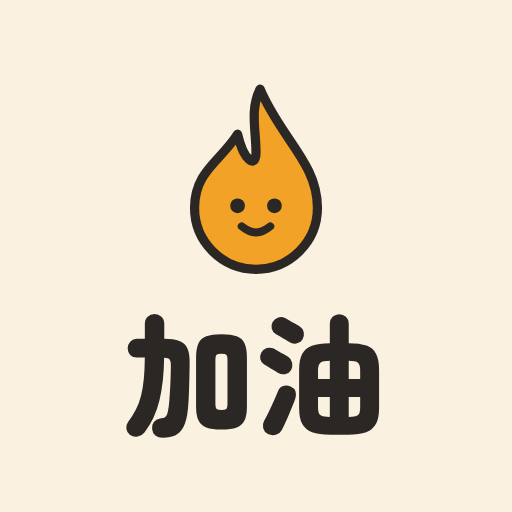
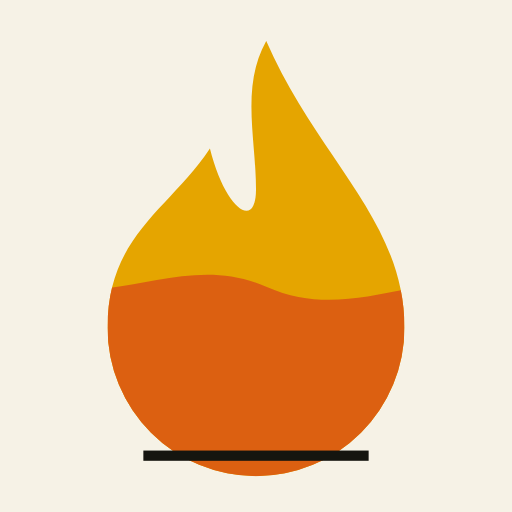
フェーズ1：アイコンを案X・O7で書き出した
design/icons-flame3.html で選んだ O7「二段の炎」を配布物として仕上げた。

- assets/build-icons.mjs を追加。SVGの生成とPNGの書き出しを1か所にまとめ、
  色と形は冒頭の定数だけで変わるようにした。PNGはChromiumでSVGを撮って作る
  （ラスタライザを増やさずに済ませる。marketing/capture-sheets.mjs と同じ流儀）
- 生成り地 #F6F2E6／炎の上段＝山吹 #E5A500／下段＝柿 #DC6011／下の罫＝墨 #15150F
- 書き出し：icon.svg / icon-maskable.svg / icon-192.png / icon-512.png /
  icon-512-maskable.png / apple-touch-icon-180.png
- maskable は中央80%しか見える保証がないので、地はそのままに中身を0.8倍に縮めた。
  これで罫の下端（y=90）も安全圏に入る
- 旧アイコンに埋め込んでいた「加油」の字とwoff2サブセットは不要になったので外した
  （O7は炎だけの構成）。SVGは約3KB→570バイト

ファイル名は前と同じなので manifest.json と index.html の <link> は変更不要
（4つとも既に正しい先を指している）。

残件として design/HANDOFF.md に記録した：
- アプリ内ヘッダー（.brand-flame）とLPの炎がまだ旧デザイン。ヘッダーはフェーズ3で
  作り直すのでそこで差し替える
- manifest.json の background_color / theme_color が #FCF9F2 のまま。アイコンの地は
  #F6F2E6 なのでフェーズ2でトークンを決めるときに揃える

あわせて design/HANDOFF.md を現在地に更新した。前回宙に浮いていた「#E8981F の解釈」は
確認の結果、アイコンの色ではなくUIのアクセント色の指定だったと判明。アクセントは
クリーム地に対する明度差が取れる柿 #DC6011 に決定し、アイコンはO7のまま設計どおりとした。

sw.js の CACHE_VERSION を v64 → v65 に上げた。

Claude-Session: https://claude.ai/code/session_01XjCFNBLbRvqwXR3j61esWr

diff --git a/sw.js b/sw.js
@@ -5,7 +5,7 @@
    ・Firebase / Google 系の通信は常にネット直結（キャッシュしない＝同期・ログインに影響なし）
    ※ アプリを更新したら下の CACHE_VERSION の数字を1つ上げてコミットしてください。 */
 
-const CACHE_VERSION = 'hsk4-cache-v64';
+const CACHE_VERSION = 'hsk4-cache-v65';
 const PRECACHE = [
   './',
   './index.html',

diff --git a/design/HANDOFF.md b/design/HANDOFF.md
@@ -2,8 +2,16 @@
 
 最終更新：2026-09-19　ブランチ：`claude/eloquent-davinci-fi7mjq`
 
-**アプリ本体（`index.html`）にはまだ一切手を入れていない。** ここまでは全部モックアップ。
-実装はこれから。
+## いまどこまで進んだか
+
+| | 状態 |
+|---|---|
+| フェーズ0（粗取り4件） | **完了**。`index.html` に着手済み |
+| フェーズ1（アイコン一式） | **完了**。`assets/` を書き出し済み |
+| フェーズ2以降 | **未着手。ここから再開する** |
+
+**次に手を付けるのはフェーズ2（デザイントークンを案Xへ差し替え）。**
+下の「4. 次にやること」の番号はそのまま使える。
 
 ---
 
@@ -14,23 +22,24 @@
 | **デザインの方向** | **案X「辞書・新聞」の洗練後**。明朝（Noto Serif JP）＋宋体（Noto Serif SC）、罫線で組む、カードも角丸も影もゼロ |
 | **構造** | **案A**（下タブ化／今日画面は主役1枚／Day学習を4ステップ／完了画面を新設／設定を4グループ） |
 | **今日画面** | **確定**。復習・模試は行（リスト）にして右端に罫囲みのボタン。進捗は**90マスの格子**（原稿用紙の升目）＋「12 / 90」を30pxで |
-| **アイコン** | **O7「二段の炎」**の構成。色は **`#E8981F`** |
+| **アイコン** | **O7「二段の炎」**を設計どおり（生成り地／上＝山吹／下＝柿）。下の「2.」に確定値 |
 | **色の方針** | **朱から離れる。**「中国＝赤」の記号を避け、暖色へ。アプリの元ブランド色がアンバー `#F2A227` なので実質そこへ戻る |
 | **洗練の8項目** | タイプスケール6段に固定／余白を4pxグリッド／数字を主役／色を1つ減らす／下端に地面を作る／囲いを外す／中文とピンインの対比／影を消して罫を2階層。**どの方向でも効くので確定扱い** |
 
-## 2. 最初に確認すること（指示が曖昧なまま残っている）
+## 2. アイコンとアクセント色（確認済み・決定）
 
-**「O7で、#E8981F で」の解釈。** O7は二段（下＝柿 `#DC6011` ／上＝山吹 `#E5A500`）の炎。
-`#E8981F` を単色にすると二段でなくなるので、次のどれかを確認する。
+前回ここが宙に浮いていたが、確認して決まった。
 
-1. 二段のまま、**上を `#E8981F`**、下をより濃い橙（例 `#C86A14`）に
-2. 二段のまま、**下を `#E8981F`**、上をより明るい黄（例 `#F2B23C`）に
-3. 二段をやめて **`#E8981F` の単色**（＝O1/O3に近い）
+| 項目 | 決定 |
+|---|---|
+| **アイコン** | **O7 を設計どおり。** 生成り地 `#F6F2E6`／炎の上段＝山吹 `#E5A500`／下段＝柿 `#DC6011`／下の罫＝墨 `#15150F` |
+| **UIのアクセント色** | **柿 `#DC6011`。** 今日画面の「復習する」ボタンの罫と文字、90マスの「今日」に使う |
 
-あわせて決める：**UIのアクセント色**（今日画面の「復習する」ボタンの罫と文字、90マスの「今日」）。
-`#E8981F` をそのまま使うか、別にするか。
-※ 第3ラウンドで確認したとおり、**山吹 `#E5A500` はクリーム地に対する明度差が小さく、
-罫囲みのボタンや文字に使うと読みにくい**。`#E8981F` は境界線上なので、実機で確認したい。
+`#E8981F` は**アイコンの色ではなくアクセント色の指定だった**（前回の宙ぶらりんはこの取り違え）。
+そのうえでアクセントは、クリーム地に対する明度差が取れる柿 `#DC6011` を選んだ。
+結果としてアクセント色はアイコンの下段と同じ色になり、揃っている。
+
+生成り地は「明るい壁紙のホーム画面で輪郭が溶ける」案だが、**それを承知でO7のまま**と決めた。
 
 ## 3. モックアップの置き場所
 
@@ -53,19 +62,35 @@
 
 `design/README.md` の「3. 案A — 画面ごとの対応表」と「4. 案C」に、触る関数まで書いてある。
 
-### フェーズ0：粗取り（決めごと不要・すぐできる）
-1. **ブックマークタブにDay画面の下ナビ（前・完了済み・次）が出ているのを直す。**
-   `render()` が `bottomNav` を表示してから bookmark で早期リターンしているため。
-   押すと関係ないDayの完了状態が変わる。**実質バグ**
-2. 初回起動の「スキップして始める」がボタン内で改行する
-3. ブックマークでピンインが二重に出ている
-4. 決済まわりの `alert()` をアプリ内トースト（`hsk-toast`）へ
+### フェーズ0：粗取り — **完了**（コミット済み）
+
+1. ~~ブックマークタブにDay画面の下ナビが出ている~~ → `render()` の bookmark 分岐を
+   `display='flex'` の手前へ移し、分岐の中で下ナビを隠した
+2. ~~「スキップして始める」がボタン内で改行する~~ → 文言を「スキップ」に短縮
+3. ~~ブックマークでピンインが二重に出ている~~ → 呼び出し側で `pinyin` 引数として渡すよう直し、
+   保存済みデータ向けに `fmtBmItem()` でも先頭の拼音を落とすようにした
+4. ~~決済まわりの `alert()`~~ → `_toast(msg, 6000)` へ。`window._toast` も公開した
 
 ※ 受験予定日の `mm/dd/yyyy` は**撮影環境（Chromium）の表示で、実機の Safari では 年/月/日 になる**。直す必要はない。
 
+※ **クラウド同期の `alert()` 3件は残してある**（`index.html` の「先にログインしてください」
+  「クラウドにデータがありません」）。決済まわりではないので今回の範囲から外した。
+  同じ扱いに揃えるなら、ついでにトーストへ寄せるとよい。
+
 ### フェーズ1〜6（案A本体）
-1. **アイコンをSVGで仕上げ、`assets/` のPWAアイコン一式を書き出す**（180 / 192 / 512 / maskable）。`manifest.json` と `index.html` の `<link>` も更新
-2. デザイントークンを案Xへ差し替え（色・書体・角丸4段・影を1系統・罫2階層）
+1. ~~**アイコンをSVGで仕上げ、`assets/` のPWAアイコン一式を書き出す**~~ → **完了**。
+   `node assets/build-icons.mjs` で `icon.svg` `icon-maskable.svg` `icon-192.png`
+   `icon-512.png` `icon-512-maskable.png` `apple-touch-icon-180.png` を1か所から書き出す。
+   色と形を変えるときはこのスクリプト冒頭の定数だけ触ること。
+   ファイル名は前と同じなので `manifest.json` と `index.html` の `<link>` は**変更不要だった**
+   （4つとも既に正しい先を指している）。
+   - **残件：アプリ内ヘッダーとLPの炎がまだ旧デザイン**（`index.html` の `.brand-flame`、
+     `lp/index.html` の2か所）。顔つきの丸い炎のまま。ヘッダーはフェーズ3で作り直すので
+     そこで差し替える。LPは別トラック
+   - **残件：`manifest.json` の `background_color` / `theme_color` が `#FCF9F2` のまま。**
+     アイコンの地は `#F6F2E6` なので起動スプラッシュにわずかな継ぎ目が出る。
+     フェーズ2でトークンを決めるときに揃えること
+2. **← ここから再開** デザイントークンを案Xへ差し替え（色・書体・角丸4段・影を1系統・罫2階層）
 3. 上の4タブ → 下タブへ。ヘッダーを細いバーに
 4. 今日画面（確定版のとおり）
 5. Day学習を4ステップ化
